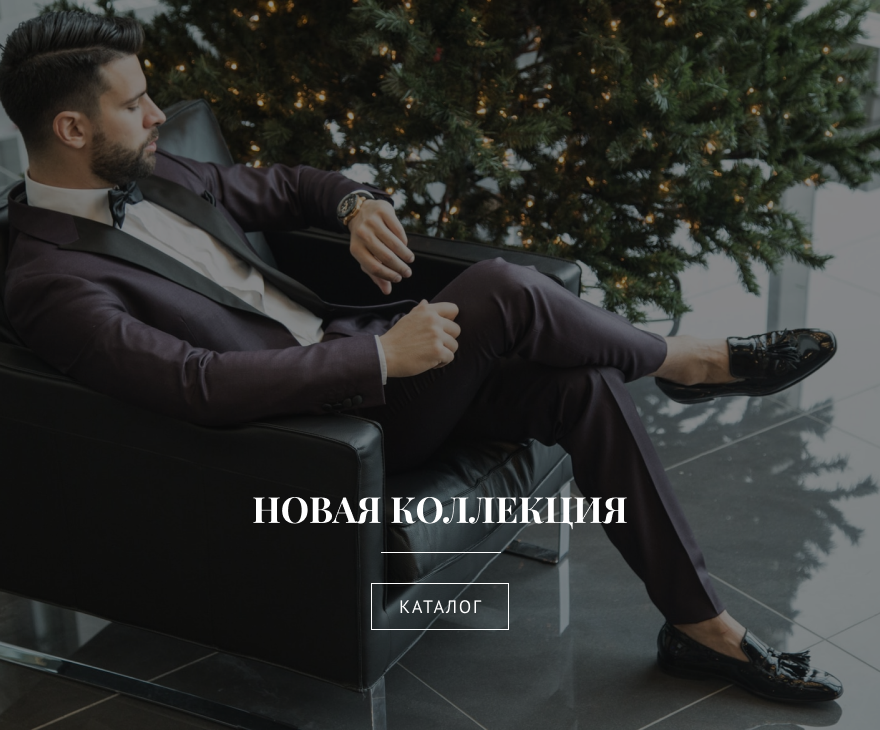
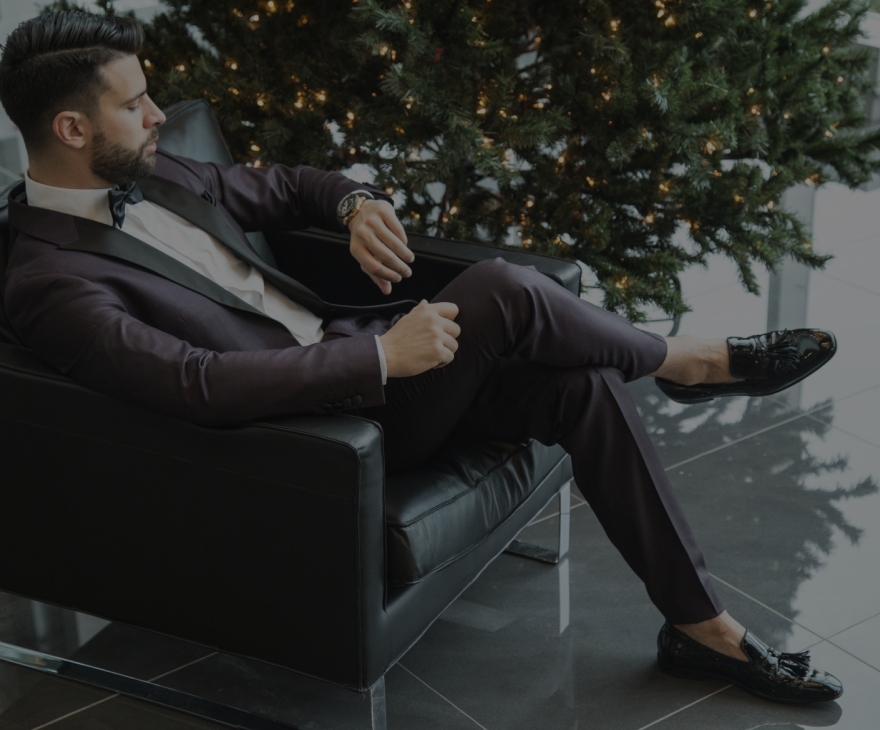
web-site 10.06.2021

Changed region(s): [[0.2761, 0.663, 0.7057, 0.7233], [0.4602, 0.8137, 0.5523, 0.8438]]

diff --git a/index.html b/index.html
@@ -11,25 +11,25 @@
 
 <body>
     <header class="header">
-        <selection class="wrap header-wrap">
+        <section class="wrap header-wrap">
             <nav class="header-left">
                 <a href="index.html" class="phone-ling">
                     <img src="img/phone.svg" alt="phone">
                 </a>
-                <a href="#" class="phone-ling">
-                    <img src="img/8 (812) 123-45-67 _ Работаем 7 дней в неделю _ 9_00 — 18_00.png" alt="number">
+                <a class="text-up">
+                    8 (812) 123-45-67 Работаем 7 дней в неделю 9 00 — 18 00
                 </a>
             </nav>
             <nav class="header-right">
                 <a href="#" class="login">
                     <img src="img/login.png" alt="login">
                 </a>
-                <a href="#" class="registration">
-                    <img src="img/Регистрация.png" alt="registr">
+                <a class="text-up">
+                    Войти/Регистрация
                 </a>
 
             </nav>
-        </selection>
+        </section>
 
     </header>
     <menu class="menu">
@@ -39,16 +39,17 @@
                     <img src="img/logo.png" alt="logo">
                 </a>
             </nav>
-            <nav class="header-right">
-                <a href="#" class="buttonliked">
-                    <img src="img/buttonliked.png" alt="like">
-                </a>
-                <a href="#" class="cabinet">
-                    <img src="img/личный кабинет.png" alt="cabinet">
-                </a>
-                <a href="#" class="setting">
-                    <img src="img/настройки.png" alt="setting">
-                </a>
+            <nav class="right">
+                <div class="button like">
+                    <p>Понравилось</p>
+                </div>
+                <div class="button cabinet">
+                    <p class="text-button"> Личный кабинет</p>
+                </div>
+                <div class="button setting">
+                    <p class="text-button"> Настройки</p>
+                </div>
+
                 <a href="#" class="cart">
                     <svg width="59" height="80" viewBox="0 0 59 80" fill="none" xmlns="http://www.w3.org/2000/svg">
                         <rect width="59" height="80" fill="#0F0F0F" />
@@ -76,15 +77,76 @@
     </menu>
     <section class="promo">
         <div class="wrap promo-wrap">
+            <div class="rectangle">
+                <div>
+                    <img src="img/logo2.png" alt="logo2">
+                    <hr>
+                    <p>
+                        <font size="5" face="Cambria">САНКТ-ПИТЕРБУРГ</font>
+                    </p>
+                </div>
+            </div>
+            <a class="imagetext"> Lorem ipsum dolor sit amet, consectetur adip
+                iscing elit. Purus interdum purus, est tortor <p></p>
+                pulvinar ut in. Fringilla a diam enim se
+                d justo, sed iaculis
+                sagittis. Tortor id eu
+                interdum <p></p> nec ut
+                iaculis. Penatibus ullamcorper ultricies mo
+                rbi ipsum sem metus phare
+                tra, mi. <p></p> Tortor nibh magn
+                a feugiat id nunc, dui nisl viverra</a>
         </div>
     </section>
     <main>
         <section class="categories center">
-            <div class="categories-item season-wrap">
+            <div class="season-wrap">
+                <p class="seasontxt">Сезон 2020/21</p>
+                <div class="line"></div>
+                <div class=" season">
+                    <div class="season-watch">
+                        <div class="watch"></div>
+                        <div class="price">Louis XVI ATHOS <p>165 000 руб.</p>
+                        </div>
+                    </div>
+                    <div class="season-watch">
+                        <div class="watch"></div>
+                        <div class="price">Louis XVI ATHOS <p>165 000 руб.</p>
+                        </div>
+                    </div>
+                    <div class="season-watch">
+                        <div class="watch"></div>
+                        <div class="price">Louis XVI ATHOS <p>165 000 руб.</p>
+                        </div>
+                    </div>
+                </div>
+
             </div>
-            <div class="categories-item1 collection-wrap">
+            <div class="collection-wrap">
+                <p class="d">НОВАЯ КОЛЛЕКЦИЯ</p>
+                <div class="line1"></div>
+                <div class="catalog">
+                </div>
+            </div>
+
+        </section>
+
+
+        <section class="colection2018">
+            <div class="cbimage"></div>
+            <div class="colec2018">
+                <div class="seasontxt">КОЛЛЕКЦИЯ 2018</div>
+                <div class="line"></div>
+                <div class="imagetext">Lorem ipsum dolor sit amet, consectetur adipiscing elit. Non rutrum ornare ut <p>
+                    </p> mattis habitant dui arcu. Sagittis amet nunc ut neque quis nibh arcu. Vivamus <p></p>
+                    vestibulum nisi et venenatis sed scelerisque magna consectetur. Amet <p></p> convallis quis gravida
+                    facilisis vulputate. Faucibus facilisi habitasse ipsum <p></p> interdum dictum aliquet. Velit quis
+                    ullamcorper pulvinar nulla malesuada <p></p> integer. Aenean praesent viverra nulla nullam natoque
+                    volutpat curabitur <p></p> auctor. Viverra viverra ullamcorper scelerisque risus dignissim egestas.
+                    Id <p></p> aliquam a aliquam egestas leo orci pharetra sed diam. </div>
             </div>
         </section>
+        <section class="new"></section>
     </main>
 </body>
 

diff --git a/css/style.css b/css/style.css
@@ -21,6 +21,15 @@
     margin: 0;
     padding: 0;
 }
+.text-up{
+    color: rgb(145, 144, 144);
+}
+.right
+{
+    display: flex;
+    justify-content: space-between;
+    align-items: center; 
+}
 .menu{
     background-color: rgb(15, 15, 15);
     padding: 0 0;
@@ -29,19 +38,53 @@
 .menu-wrap{
     display: flex;
     justify-content: space-between;
+    align-items: center;  
+}
+.button
+{
+    height: 80px;
+    width: 136px;
+    color: white;
+    text-align: center;
+    display: flex;
+    justify-content: center;
     align-items: center;
 }
+.like{
+    background-image: url(../img/buttonliked.png);
+    
+}
+.text-button{
+    text-align: center;
+    color: rgb(109, 102, 102);
+}
 .promo{
-    background-color: blanchedalmond;
+    background-color: blanchedalmond;  
 }
 .promo-wrap{
     background-image: url(/img/promo.png);
     min-height: 810px;
-    min-width: 1830px;
-   background-repeat: no-repeat;
-   display: center;
-   align-items: flex;
-   justify-content: flex-end;
+    min-width: 1920px;
+    color: white;
+    text-align: center;  
+}
+.rectangle{
+    background-image: url(../img/rectangle.png);
+    width: 320px;
+    height: 320px;
+    text-align: center;
+    color: white;
+    display: flex;
+    justify-content: center;
+    align-items: center;
+    margin-left: auto;
+    margin-right: auto;
+    position: relative;
+    top: 150px;
+    margin-bottom: 200px;
+}
+.imagetext{
+    font-size: large; 
 }
 .categories
 {
@@ -54,19 +97,126 @@
    align-items: center;
    justify-content: center;
 }
-.categories-item
+.data
 {
-   width: 1040px;
-   height: 730px; 
+    font-family: cursive;
 }
-.categories-item1
+.seasontxt
 {
-   width: 880px;
-   height: 730px; 
+font-size: 50px;
+font-family: Playfair Display;
+padding-top: 50px;
+}
+.line{
+    background-image: url(../img/Line.png);
+    width: 120px;
+    height: 1px;
+    margin-top: 51px;
+    margin-left: auto;
+    margin-right: auto;  
+}
+.season{
+    display: flex;
+    justify-content: space-between;
+    flex-wrap: wrap;
+    padding-top: 80px;
+    padding-left: 65px;
+    padding-right: 65px;
 }
 .season-wrap{
-    background-image: url(/img/new-season.png);  
+    background-image: url(/img/new-season.png);
+    color:white;
+    width: 1040px;
+    height: 730px; 
+    text-align: center;
+    
+}
+.season-watch{
+    background-image: url(../img/watchrec.png);
+    width: 260px;
+    height: 325px;
+    color: white;
+    
+}
+.watch
+{
+    background-image: url(../img/watch.png);
+    width: 215px;
+    height: 214px;
+    margin-left: auto;
+    margin-right: auto;
+    position: relative;
+    top: 20%;
+    margin-bottom: 110px;
+}
+.price
+{
+    text-align: left;
+    font-size: 25px;
+    font-family: Lucida Sans Regular;
 }
 .collection-wrap{
     background-image: url(/img/new-collection.png);
+    width: 880px;
+    height: 730px;
+    color: white;
+}
+.d{
+    text-align: center;
+    font-family: Playfair Display;
+    font-size: 36px;
+    position: relative;
+    top: 75%;
+    margin-bottom: 110px;
+}
+.line1{
+    background-image: url(../img/Line.png);
+    width: 120px;
+    height: 1px;
+    margin-top: 601px;
+    margin-left: auto;
+    margin-right: auto;  
+}
+.catalog{
+    background-image: url(../img/catalog.png);
+    background-repeat: no-repeat;
+    margin-top: 15px;
+    margin-left: 370px;
+    width: 138px;
+    height: 47px;
+    text-align: center;  
+}
+.colection2018
+{
+    display: flex;
+    flex-wrap: wrap;
+}
+.cbimage{
+    background-image: url(../img/cbimage.png);
+    width: 880px;
+    height: 600px;
+}
+.colec2018{
+    background-image: url(../img/colection2018.png);
+    width: 1040px;
+    height: 600px;
+    color: white;
+    text-align: center;
+}
+.text
+{
+    margin-top: 100px;
+}
+.viev-colection{
+    background-image: url(../img/COLEction.png);
+    width: 311px;
+    height: 47px;
+    background-repeat: no-repeat;
+    margin-top: 100px;
+    margin-left: 36%;
+}
+.new{
+    width: 1920px;
+    height: 1289px;
+    background-color: black;
 }
